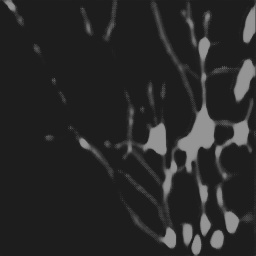
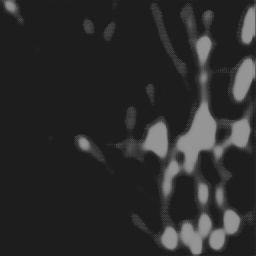
created graphs

diff --git a/fastResults.py b/fastResults.py
@@ -36,43 +36,40 @@ input_image = np.expand_dims(input_image, axis=-1)  # Tek bir kanal ekleyerek (2
 
 
 
-gaus_kernel_x=1
-gaus_kernel_y=1
+gaus_kernel_x=5
+gaus_kernel_y=5
 gaus_kernel_std_dev=0
 blurred_image = cv2.GaussianBlur(input_image, (gaus_kernel_x, gaus_kernel_y), gaus_kernel_std_dev)
 
 kernelSize=[]
 iouScore=[]
 
-cv2.imshow('Original Image', input_image)
-for i in range(3):
+#cv2.imshow('Original Image', input_image)
+
+for i in range(30):
     # use i*2 to keep kernel side length always odd number
-    blurred_image = cv2.GaussianBlur(input_image, (gaus_kernel_x+i*2, gaus_kernel_y+i*2), gaus_kernel_std_dev)
-    cv2.imshow(f'Blurred Image {i}', blurred_image)
+    blurred_image = cv2.GaussianBlur(input_image, (gaus_kernel_x, gaus_kernel_y), gaus_kernel_std_dev+i)
+    print(gaus_kernel_x+i*2)
+    #cv2.imshow(f'Blurred Image {i}', blurred_image)
     
-cv2.waitKey(0)  
-cv2.destroyAllWindows()
+    # kernel size data collected 
+    kernelSize.append(gaus_kernel_x+i*2)
 
-# Tahmin yapma
-prediction_result = model.predict(np.expand_dims(blurred_image, axis=0))
-side_res=prediction_result
-# Numpy dizisini JPEG dosyasına dönüştürme
-output_image_path = 'prediction_result1.jpg'
-prediction_result = (prediction_result * 255).astype(np.uint8)
-cv2.imwrite(output_image_path, prediction_result[0])
+    #prediction made
+    prediction_result = model.predict(np.expand_dims(blurred_image, axis=0))
+    #prediction tuned into value 
+    side_res=prediction_result
+    
+    # calculate iou score
+    iou = iou_score(side_res, input_mask)
+    # iou score added to list
+   
+    iouScore.append(iou.numpy())
 
-# Dönüştürülen JPEG dosyasını siyah beyaz hale getirme
-output_image_gray_path = 'prediction_result.jpg'
-output_image_gray = cv2.imread(output_image_path, cv2.IMREAD_GRAYSCALE)
-cv2.imwrite(output_image_gray_path, output_image_gray)
+import graphmaker2d as gmaker
 
-
-
-
+gmaker.graph(kernelSize, iouScore ,"Gaussian Low Pass Standart Deviation - IOU Score" ,xname="Gaussian  Standart Deviation")
 
 
-reverse_res = prediction_result.astype(np.float32) / 255.0
-iou = iou_score(side_res, input_mask)
 
-# .numpy() makes it only return umber
-print("IoU Score:", iou.numpy())
+    

diff --git a/graphmaker2d.py b/graphmaker2d.py
@@ -14,8 +14,8 @@ def graph(kernelSize:list,iouScore:list,graphName:str,xname:str = "Kernel Size",
     plt.plot(x_fit, y_fit, 'r', label='Fitted curve')
 
     # Set labels and title
-    plt.xlabel('X')
-    plt.ylabel('Y')
+    plt.xlabel(xname)
+    plt.ylabel(yname)
     plt.title(graphName)
 
     # Show legend
